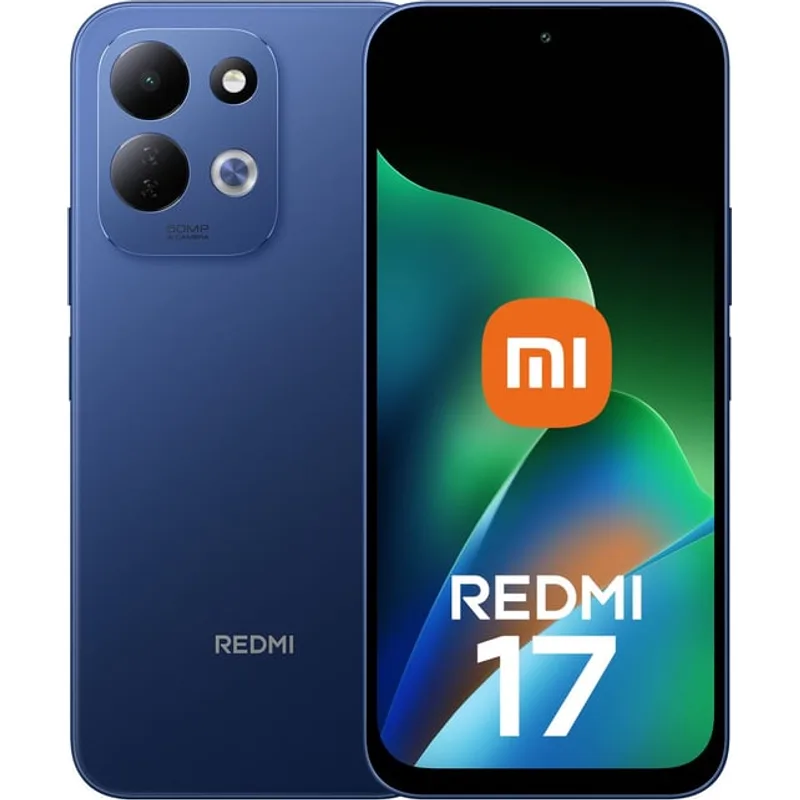
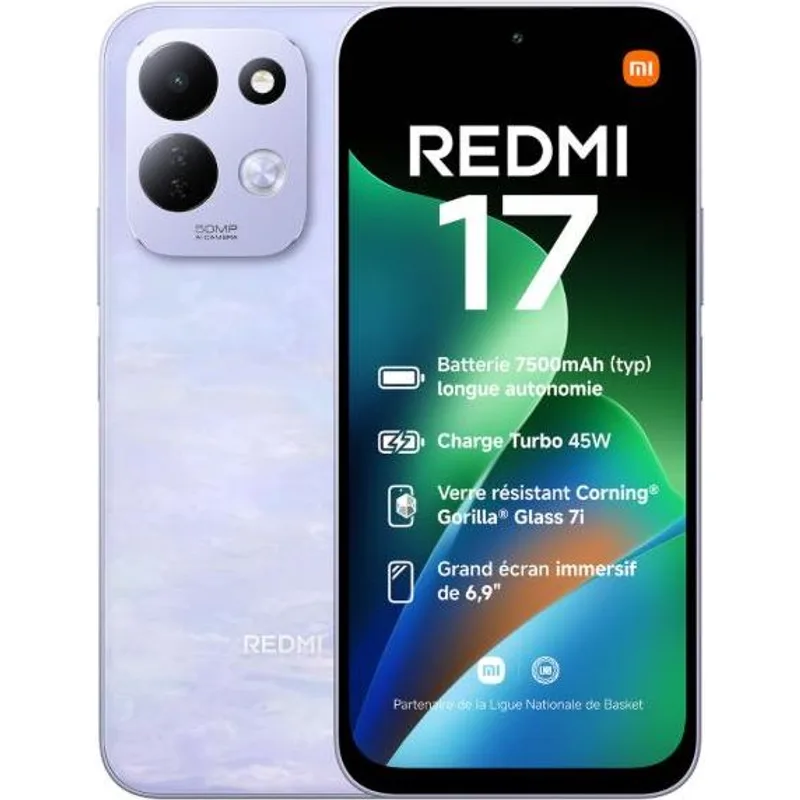
Fotos na cor disponível em estoque e remove workflow obsoleto
- Troca fotos para uma cor que está em estoque: Realme C75 5G (preto),
  Redmi 17 (roxo), Poco M8 Pro (preto) e Xiaomi 17T (preto).
- Versão do Poco X8 Pro só em Branco agora mostra o aparelho branco:
  quando a versão tem uma única cor, usa a foto "Modelo Cor" se existir.
- Substitui fotos com marca d'água (Note 15 Pro 4G/5G/Pro+, Poco X8 Pro,
  X8 Pro Max e F8 Pro) por imagens limpas.
- Remove .github/workflows/add-close-modal.yml, que reescrevia o
  index.html a cada push e já não tinha efeito.

diff --git a/index.html b/index.html
@@ -1,1 +1,1 @@
-<!DOCTYPE html><html lang="pt-BR"><head><meta charset="UTF-8"><meta name="viewport" content="width=device-width,initial-scale=1"><title>Catálogo de Celulares</title><style>*{box-sizing:border-box}body{margin:0;font-family:Arial,sans-serif;background:#0b0f17;color:#fff}.wrap{max-width:1200px;margin:auto;padding:24px}.hero{background:linear-gradient(135deg,#111827,#1f2937);border:1px solid #263247;border-radius:24px;padding:28px}.hero h1{margin:0 0 8px;font-size:clamp(28px,5vw,48px)}.hero p{margin:0;color:#b6c0cf}.controls{display:grid;grid-template-columns:1fr;gap:12px;margin:22px 0}.search{display:flex;gap:10px;align-items:center;background:#131a25;border:1px solid #263247;border-radius:14px;padding:0 14px}.search input{width:100%;padding:14px 0;background:transparent;border:0;color:#fff;outline:none;font-size:16px}.filters{display:flex;gap:10px;flex-wrap:wrap}.filter{border:1px solid #2b3649;background:#111827;color:#dbe4f0;border-radius:999px;padding:10px 14px;cursor:pointer}.filter.active{background:#fff;color:#0b0f17}.grid{display:grid;grid-template-columns:repeat(auto-fit,minmax(260px,1fr));gap:18px}.card{overflow:hidden;background:#111827;border:1px solid #263247;border-radius:20px;display:flex;flex-direction:column}.photo{height:255px;background:#fff;display:flex;align-items:center;justify-content:center;padding:14px;position:relative}.photo img{width:100%;height:100%;object-fit:contain;display:block}.photo .fallback{display:none;color:#64748b;font-weight:700;text-align:center}.content{padding:18px;display:flex;flex-direction:column;gap:11px;flex:1}.brand{font-size:12px;color:#91a4bd;text-transform:uppercase;letter-spacing:.12em}.name{font-size:20px;font-weight:800}.specs,.colors,.small{color:#b8c2d0;font-size:14px}.price{font-size:28px;font-weight:900;margin-top:auto}.pix{font-size:12px;color:#8fe8b4}.installment{background:#182233;border-radius:12px;padding:10px 12px;font-size:14px}.installment strong{font-size:17px}.btn{border:0;border-radius:12px;padding:12px 14px;font-weight:800;cursor:pointer}.primary{background:#25D366;color:#08120c}.secondary{background:#1b2432;color:#fff;border:1px solid #2d3a50}.cardbtn{background:#eef2ff;color:#101827}.actions{display:grid;grid-template-columns:1fr 1fr;gap:8px}.full{grid-column:1/-1}.cartbar{position:sticky;bottom:14px;margin-top:20px;background:#111827;border:1px solid #2c3850;border-radius:16px;padding:12px 14px;display:flex;justify-content:space-between;align-items:center}.hidden{display:none}.modal{position:fixed;inset:0;background:rgba(0,0,0,.72);display:none;align-items:center;justify-content:center;padding:18px;z-index:100}.modal.open{display:flex}.sheet{position:relative;width:min(620px,100%);max-height:85vh;overflow:auto;background:#111827;border:1px solid #2a3850;border-radius:22px;padding:22px}.close{position:sticky;top:0;float:right;width:42px;height:42px;border:1px solid #34435b;border-radius:50%;background:#1b2432;color:#fff;font-size:25px;cursor:pointer}.row{display:flex;justify-content:space-between;gap:12px;padding:12px 0;border-bottom:1px solid #243148}.remove{background:none;border:0;color:#ff8b8b;cursor:pointer}.footer{color:#7f8da1;text-align:center;padding:32px 8px 8px;font-size:13px}@media(min-width:760px){.controls{grid-template-columns:1.2fr auto;align-items:center}}@media(max-width:500px){.wrap{padding:14px}.photo{height:230px}}</style></head><body><main class="wrap"><section class="hero"><h1>📱 Catálogo de Smartphones</h1><p>Escolha seu aparelho. Pix ou cartão em até 12x com as taxas do parcelamento repassadas ao comprador.</p></section><section class="controls"><label class="search">🔎 <input id="searchInput" type="search" placeholder="Buscar por modelo, memória ou marca..."></label><div class="filters" id="filterBox"></div></section><section class="grid" id="productGrid"></section><div class="cartbar hidden" id="cartBar"><div><strong id="cartCount">0 itens</strong><div class="small">Pedido selecionado</div></div><button class="btn primary" onclick="openCart()">Ver pedido</button></div><div class="footer">Imagens ilustrativas do modelo. Cores podem variar conforme disponibilidade. Estoque e valores sujeitos a atualização.</div></main><div class="modal" id="modal"><div class="sheet" id="sheet"></div></div><script>const WHATSAPP='5516981377309',FACTORS=[1.0438433333,1.06485,1.0753866667,1.0858966667,1.0964933333,1.1070533333,1.1440366667,1.1550033333,1.1661833333,1.1773033333,1.1886366667,1.1999066667];const IMG={"Realme Note 60X":"img/realme-note-60x.webp","Realme Note 70":"img/realme-note-70.webp","Realme C71":"img/realme-c71.webp","Realme C100x":"img/realme-c100x.webp","Realme C75 5G":"img/realme-c75-5g.webp","Realme C85":"img/realme-c85.webp","Realme C85 Pro":"img/realme-c85-pro.webp","Redmi A7 Pro":"img/redmi-a7-pro.webp","Redmi 15C":"img/redmi-15c.webp","Poco C81 Pro 4G":"img/poco-c81-pro-4g.webp","Poco C85 4G":"img/poco-c85-4g.webp","Note 15 4G":"img/redmi-note-15-4g.webp","Redmi 17":"img/redmi-17.webp","Redmi 17 4G":"img/redmi-17.webp","Note 17 4G":"img/redmi-note-17-4g.webp","Note 15 Pro 4G":"img/redmi-note-15-pro-4g.webp","Note 15 Pro 5G":"img/redmi-note-15-pro-5g.webp","Note 15 Pro Plus 5G":"img/redmi-note-15-pro-plus-5g.webp","Poco M8 Pro 5G":"img/poco-m8-pro-5g.webp","Poco X8 Pro 5G":"img/poco-x8-pro-5g.webp","Poco X8 Pro Max 5G":"img/poco-x8-pro-max-5g.webp","Note 17 Pro Max 5G":"img/redmi-note-17-pro-max-5g.webp","Poco F8 Pro 5G":"img/poco-f8-pro-5g.webp","Mi 17T":"img/xiaomi-17t.webp"};const raw=[['Realme','Realme Note 60X','64GB',['Preto','Verde'],1659.75],['Realme','Realme Note 60X','128GB / 4GB RAM',['Preto','Verde'],1740.95],['Realme','Realme Note 70','128GB / 4GB RAM',['Dourado','Preto'],1832.30],['Realme','Realme Note 70','256GB / 8GB RAM',['Dourado'],1933.80],['Realme','Realme C71','128GB / 4GB RAM',['Branco','Verde'],1852.60],['Realme','Realme C71','256GB / 8GB RAM',['Branco'],2015],['Realme','Realme C100x','128GB / 4GB RAM',['Gold','Azul'],2055.60],['Realme','Realme C75 5G','256GB / 8GB RAM',['Gold','Preto'],2299.20],['Realme','Realme C85','256GB / 8GB RAM',['Azul','Preto'],2319.50],['Realme','Realme C85 Pro','256GB / 8GB RAM',['Roxo','Verde'],2441.30],['Redmi','Redmi A7 Pro','128GB / 4GB RAM',['Preto','Azul','Verde'],1781.55],['Redmi','Redmi 15C','128GB / 4GB RAM',['Azul','Preto'],1842.45],['Poco','Poco C81 Pro 4G','128GB / 4GB RAM',['Preto','Verde','Gold'],1791.70],['Poco','Poco C85 4G','256GB / 8GB RAM',['Preto','Verde','Roxo'],2015],['Redmi','Redmi 15C','256GB / 8GB RAM',['Preto','Azul','Verde'],2015],['Redmi','Note 15 4G','256GB / 8GB RAM',['Preto','Azul','Verde','Roxo'],2268.75],['Redmi','Redmi 17','128GB / 4GB RAM',['Preto','Roxo'],2065.75],['Redmi','Redmi 17 4G','256GB / 6GB RAM',['Preto','Azul','Roxo'],2309.35],['Redmi','Note 17 4G','256GB / 6GB RAM',['Azul','Roxo'],2522.50],['Redmi','Note 15 Pro 4G','256GB / 8GB RAM',['Preto','Titanium','Azul'],2603.70],['Redmi','Note 15 Pro 5G','256GB / 8GB RAM',['Preto','Titanium','Azul'],2857.45],['Redmi','Note 15 Pro Plus 5G','256GB / 8GB RAM',['Preto'],3314.20],['Poco','Poco M8 Pro 5G','256GB / 8GB RAM',['Silver','Preto'],2827],['Poco','Poco M8 Pro 5G','512GB / 12GB RAM',['Silver','Preto','Verde'],2979.25],['Poco','Poco X8 Pro 5G','256GB / 8GB RAM',['Preto','Verde','Amarelo'],3283.75],['Poco','Poco X8 Pro 5G','256GB / 8GB RAM',['Branco'],3314.20],['Poco','Poco X8 Pro 5G','512GB / 8GB RAM',['Preto','Verde'],3486.75],['Poco','Poco X8 Pro 5G','512GB / 12GB RAM',['Preto','Branco','Verde'],3567.95],['Poco','Poco X8 Pro Max 5G','256GB / 12GB RAM',['Preto','Branco','Azul'],3973.95],['Poco','Poco X8 Pro Max 5G','512GB / 12GB RAM',['Preto','Azul','Laranja','Branco'],4197.25],['Redmi','Note 17 Pro Max 5G','512GB / 8GB RAM',['Preto','Verde','Gold'],3892.75],['Poco','Poco F8 Pro 5G','256GB / 12GB RAM',['Preto','Silver'],4095.75],['Poco','Poco F8 Pro 5G','512GB / 12GB RAM',['Preto','Silver'],4451],['Xiaomi','Mi 17T','512GB / 12GB RAM',['Preto'],4501.75]];const products=raw.map((x,i)=>({id:i,brand:x[0],name:x[1],memory:x[2],colors:x[3],price:x[4],image:IMG[x[1]]||''})),els={search:document.getElementById('searchInput'),filters:document.getElementById('filterBox'),grid:document.getElementById('productGrid'),modal:document.getElementById('modal'),sheet:document.getElementById('sheet'),cartBar:document.getElementById('cartBar'),cartCount:document.getElementById('cartCount')};let active='Todos',cart=[];const money=v=>v.toLocaleString('pt-BR',{style:'currency',currency:'BRL'}),totalCard=(p,n)=>p*FACTORS[n-1];function renderFilters(){const b=['Todos',...new Set(products.map(p=>p.brand))];els.filters.innerHTML=b.map(x=>`<button class="filter ${x===active?'active':''}" data-brand="${x}">${x}</button>`).join('');els.filters.querySelectorAll('button').forEach(x=>x.onclick=()=>{active=x.dataset.brand;renderFilters();renderProducts()})}function renderProducts(){const q=els.search.value.trim().toLowerCase(),list=products.filter(p=>(active==='Todos'||p.brand===active)&&(`${p.brand} ${p.name} ${p.memory}`).toLowerCase().includes(q));els.grid.innerHTML=list.map(p=>`<article class="card"><div class="photo"><img src="${p.image}" alt="${p.name}" loading="lazy" referrerpolicy="no-referrer" onerror="this.style.display='none';this.nextElementSibling.style.display='block'"><div class="fallback">📱<br>${p.name}</div></div><div class="content"><div class="brand">${p.brand}</div><div class="name">${p.name}</div><div class="specs">💾 ${p.memory}</div><div class="colors">🎨 ${p.colors.join(' • ')}</div><div><div class="price">${money(p.price)}</div><div class="pix">no Pix</div></div><div class="installment">💳 ou <strong>12x de ${money(totalCard(p.price,12)/12)}</strong><br><span class="small">Total no cartão: ${money(totalCard(p.price,12))}</span></div><div class="actions"><button class="btn cardbtn full" onclick="showInstallments(${p.id})">Ver parcelas de 1x a 12x</button><button class="btn secondary" onclick="addToCart(${p.id})">+ Pedido</button><button class="btn primary" onclick="buyNow(${p.id})">WhatsApp</button></div></div></article>`).join('')||'<p>Nenhum aparelho encontrado.</p>'}function closeSheet(){els.modal.classList.remove('open')}function showInstallments(id){const p=products[id],rows=FACTORS.map((f,k)=>{const n=k+1,t=p.price*f;return `<div class="row"><strong>${n}x de ${money(t/n)}</strong><span class="small">Total ${money(t)}</span></div>`}).join('');els.sheet.innerHTML=`<button class="close" onclick="closeSheet()">×</button><h2>${p.name}</h2><p>💰 Pix: <strong>${money(p.price)}</strong></p><h3>💳 Cartão de crédito</h3>${rows}<p class="small">Taxas de parcelamento já incluídas.</p><button class="btn primary" style="width:100%" onclick="buyNow(${id})">Tenho interesse</button>`;els.modal.classList.add('open')}function addToCart(id){if(!cart.includes(id))cart.push(id);updateCart()}function updateCart(){els.cartBar.classList.toggle('hidden',!cart.length);els.cartCount.textContent=`${cart.length} ${cart.length===1?'item':'itens'}`}function removeFromCart(id){cart=cart.filter(x=>x!==id);updateCart();openCart()}function buyNow(id){const p=products[id],msg=`Olá! Tenho interesse no ${p.name} — ${p.memory}. Valor no Pix: ${money(p.price)}. Gostaria de confirmar disponibilidade, cores e parcelamento.`;window.open(`https://wa.me/${WHATSAPP}?text=${encodeURIComponent(msg)}`,'_blank')}function openCart(){const total=cart.reduce((s,id)=>s+products[id].price,0),rows=cart.map(id=>{const p=products[id];return `<div class="row"><span><strong>${p.name}</strong><br><span class="small">${p.memory} • ${money(p.price)}</span></span><button class="remove" onclick="removeFromCart(${id})">Remover</button></div>`}).join('');els.sheet.innerHTML=`<button class="close" onclick="closeSheet()">×</button><h2>Seu pedido</h2>${rows}<p><strong>Total no Pix: ${money(total)}</strong></p><button class="btn primary" style="width:100%" onclick="sendCart()">Enviar no WhatsApp</button>`;els.modal.classList.add('open')}function sendCart(){const lines=cart.map(id=>{const p=products[id];return `• ${p.name} — ${p.memory} — ${money(p.price)} no Pix`}).join('\n'),total=cart.reduce((s,id)=>s+products[id].price,0),msg=`Olá! Gostaria de consultar a disponibilidade destes aparelhos:\n\n${lines}\n\nTotal no Pix: ${money(total)}\n\nPode confirmar as cores e opções no cartão?`;window.open(`https://wa.me/${WHATSAPP}?text=${encodeURIComponent(msg)}`,'_blank')}els.search.addEventListener('input',renderProducts);els.modal.addEventListener('click',e=>{if(e.target===els.modal)closeSheet()});document.addEventListener('keydown',e=>{if(e.key==='Escape')closeSheet()});renderFilters();renderProducts();</script></body></html>
+<!DOCTYPE html><html lang="pt-BR"><head><meta charset="UTF-8"><meta name="viewport" content="width=device-width,initial-scale=1"><title>Catálogo de Celulares</title><style>*{box-sizing:border-box}body{margin:0;font-family:Arial,sans-serif;background:#0b0f17;color:#fff}.wrap{max-width:1200px;margin:auto;padding:24px}.hero{background:linear-gradient(135deg,#111827,#1f2937);border:1px solid #263247;border-radius:24px;padding:28px}.hero h1{margin:0 0 8px;font-size:clamp(28px,5vw,48px)}.hero p{margin:0;color:#b6c0cf}.controls{display:grid;grid-template-columns:1fr;gap:12px;margin:22px 0}.search{display:flex;gap:10px;align-items:center;background:#131a25;border:1px solid #263247;border-radius:14px;padding:0 14px}.search input{width:100%;padding:14px 0;background:transparent;border:0;color:#fff;outline:none;font-size:16px}.filters{display:flex;gap:10px;flex-wrap:wrap}.filter{border:1px solid #2b3649;background:#111827;color:#dbe4f0;border-radius:999px;padding:10px 14px;cursor:pointer}.filter.active{background:#fff;color:#0b0f17}.grid{display:grid;grid-template-columns:repeat(auto-fit,minmax(260px,1fr));gap:18px}.card{overflow:hidden;background:#111827;border:1px solid #263247;border-radius:20px;display:flex;flex-direction:column}.photo{height:255px;background:#fff;display:flex;align-items:center;justify-content:center;padding:14px;position:relative}.photo img{width:100%;height:100%;object-fit:contain;display:block}.photo .fallback{display:none;color:#64748b;font-weight:700;text-align:center}.content{padding:18px;display:flex;flex-direction:column;gap:11px;flex:1}.brand{font-size:12px;color:#91a4bd;text-transform:uppercase;letter-spacing:.12em}.name{font-size:20px;font-weight:800}.specs,.colors,.small{color:#b8c2d0;font-size:14px}.price{font-size:28px;font-weight:900;margin-top:auto}.pix{font-size:12px;color:#8fe8b4}.installment{background:#182233;border-radius:12px;padding:10px 12px;font-size:14px}.installment strong{font-size:17px}.btn{border:0;border-radius:12px;padding:12px 14px;font-weight:800;cursor:pointer}.primary{background:#25D366;color:#08120c}.secondary{background:#1b2432;color:#fff;border:1px solid #2d3a50}.cardbtn{background:#eef2ff;color:#101827}.actions{display:grid;grid-template-columns:1fr 1fr;gap:8px}.full{grid-column:1/-1}.cartbar{position:sticky;bottom:14px;margin-top:20px;background:#111827;border:1px solid #2c3850;border-radius:16px;padding:12px 14px;display:flex;justify-content:space-between;align-items:center}.hidden{display:none}.modal{position:fixed;inset:0;background:rgba(0,0,0,.72);display:none;align-items:center;justify-content:center;padding:18px;z-index:100}.modal.open{display:flex}.sheet{position:relative;width:min(620px,100%);max-height:85vh;overflow:auto;background:#111827;border:1px solid #2a3850;border-radius:22px;padding:22px}.close{position:sticky;top:0;float:right;width:42px;height:42px;border:1px solid #34435b;border-radius:50%;background:#1b2432;color:#fff;font-size:25px;cursor:pointer}.row{display:flex;justify-content:space-between;gap:12px;padding:12px 0;border-bottom:1px solid #243148}.remove{background:none;border:0;color:#ff8b8b;cursor:pointer}.footer{color:#7f8da1;text-align:center;padding:32px 8px 8px;font-size:13px}@media(min-width:760px){.controls{grid-template-columns:1.2fr auto;align-items:center}}@media(max-width:500px){.wrap{padding:14px}.photo{height:230px}}</style></head><body><main class="wrap"><section class="hero"><h1>📱 Catálogo de Smartphones</h1><p>Escolha seu aparelho. Pix ou cartão em até 12x com as taxas do parcelamento repassadas ao comprador.</p></section><section class="controls"><label class="search">🔎 <input id="searchInput" type="search" placeholder="Buscar por modelo, memória ou marca..."></label><div class="filters" id="filterBox"></div></section><section class="grid" id="productGrid"></section><div class="cartbar hidden" id="cartBar"><div><strong id="cartCount">0 itens</strong><div class="small">Pedido selecionado</div></div><button class="btn primary" onclick="openCart()">Ver pedido</button></div><div class="footer">Imagens ilustrativas do modelo. Cores podem variar conforme disponibilidade. Estoque e valores sujeitos a atualização.</div></main><div class="modal" id="modal"><div class="sheet" id="sheet"></div></div><script>const WHATSAPP='5516981377309',FACTORS=[1.0438433333,1.06485,1.0753866667,1.0858966667,1.0964933333,1.1070533333,1.1440366667,1.1550033333,1.1661833333,1.1773033333,1.1886366667,1.1999066667];const IMG={"Realme Note 60X":"img/realme-note-60x.webp","Realme Note 70":"img/realme-note-70.webp","Realme C71":"img/realme-c71.webp","Realme C100x":"img/realme-c100x.webp","Realme C75 5G":"img/realme-c75-5g.webp","Realme C85":"img/realme-c85.webp","Realme C85 Pro":"img/realme-c85-pro.webp","Redmi A7 Pro":"img/redmi-a7-pro.webp","Redmi 15C":"img/redmi-15c.webp","Poco C81 Pro 4G":"img/poco-c81-pro-4g.webp","Poco C85 4G":"img/poco-c85-4g.webp","Note 15 4G":"img/redmi-note-15-4g.webp","Redmi 17":"img/redmi-17.webp","Redmi 17 4G":"img/redmi-17.webp","Note 17 4G":"img/redmi-note-17-4g.webp","Note 15 Pro 4G":"img/redmi-note-15-pro-4g.webp","Note 15 Pro 5G":"img/redmi-note-15-pro-5g.webp","Note 15 Pro Plus 5G":"img/redmi-note-15-pro-plus-5g.webp","Poco M8 Pro 5G":"img/poco-m8-pro-5g.webp","Poco X8 Pro 5G":"img/poco-x8-pro-5g.webp","Poco X8 Pro Max 5G":"img/poco-x8-pro-max-5g.webp","Note 17 Pro Max 5G":"img/redmi-note-17-pro-max-5g.webp","Poco F8 Pro 5G":"img/poco-f8-pro-5g.webp","Mi 17T":"img/xiaomi-17t.webp","Poco X8 Pro 5G Branco":"img/poco-x8-pro-5g-branco.webp"};const raw=[['Realme','Realme Note 60X','64GB',['Preto','Verde'],1659.75],['Realme','Realme Note 60X','128GB / 4GB RAM',['Preto','Verde'],1740.95],['Realme','Realme Note 70','128GB / 4GB RAM',['Dourado','Preto'],1832.30],['Realme','Realme Note 70','256GB / 8GB RAM',['Dourado'],1933.80],['Realme','Realme C71','128GB / 4GB RAM',['Branco','Verde'],1852.60],['Realme','Realme C71','256GB / 8GB RAM',['Branco'],2015],['Realme','Realme C100x','128GB / 4GB RAM',['Gold','Azul'],2055.60],['Realme','Realme C75 5G','256GB / 8GB RAM',['Gold','Preto'],2299.20],['Realme','Realme C85','256GB / 8GB RAM',['Azul','Preto'],2319.50],['Realme','Realme C85 Pro','256GB / 8GB RAM',['Roxo','Verde'],2441.30],['Redmi','Redmi A7 Pro','128GB / 4GB RAM',['Preto','Azul','Verde'],1781.55],['Redmi','Redmi 15C','128GB / 4GB RAM',['Azul','Preto'],1842.45],['Poco','Poco C81 Pro 4G','128GB / 4GB RAM',['Preto','Verde','Gold'],1791.70],['Poco','Poco C85 4G','256GB / 8GB RAM',['Preto','Verde','Roxo'],2015],['Redmi','Redmi 15C','256GB / 8GB RAM',['Preto','Azul','Verde'],2015],['Redmi','Note 15 4G','256GB / 8GB RAM',['Preto','Azul','Verde','Roxo'],2268.75],['Redmi','Redmi 17','128GB / 4GB RAM',['Preto','Roxo'],2065.75],['Redmi','Redmi 17 4G','256GB / 6GB RAM',['Preto','Azul','Roxo'],2309.35],['Redmi','Note 17 4G','256GB / 6GB RAM',['Azul','Roxo'],2522.50],['Redmi','Note 15 Pro 4G','256GB / 8GB RAM',['Preto','Titanium','Azul'],2603.70],['Redmi','Note 15 Pro 5G','256GB / 8GB RAM',['Preto','Titanium','Azul'],2857.45],['Redmi','Note 15 Pro Plus 5G','256GB / 8GB RAM',['Preto'],3314.20],['Poco','Poco M8 Pro 5G','256GB / 8GB RAM',['Silver','Preto'],2827],['Poco','Poco M8 Pro 5G','512GB / 12GB RAM',['Silver','Preto','Verde'],2979.25],['Poco','Poco X8 Pro 5G','256GB / 8GB RAM',['Preto','Verde','Amarelo'],3283.75],['Poco','Poco X8 Pro 5G','256GB / 8GB RAM',['Branco'],3314.20],['Poco','Poco X8 Pro 5G','512GB / 8GB RAM',['Preto','Verde'],3486.75],['Poco','Poco X8 Pro 5G','512GB / 12GB RAM',['Preto','Branco','Verde'],3567.95],['Poco','Poco X8 Pro Max 5G','256GB / 12GB RAM',['Preto','Branco','Azul'],3973.95],['Poco','Poco X8 Pro Max 5G','512GB / 12GB RAM',['Preto','Azul','Laranja','Branco'],4197.25],['Redmi','Note 17 Pro Max 5G','512GB / 8GB RAM',['Preto','Verde','Gold'],3892.75],['Poco','Poco F8 Pro 5G','256GB / 12GB RAM',['Preto','Silver'],4095.75],['Poco','Poco F8 Pro 5G','512GB / 12GB RAM',['Preto','Silver'],4451],['Xiaomi','Mi 17T','512GB / 12GB RAM',['Preto'],4501.75]];const products=raw.map((x,i)=>({id:i,brand:x[0],name:x[1],memory:x[2],colors:x[3],price:x[4],image:(x[3].length===1&&IMG[x[1]+' '+x[3][0]])||IMG[x[1]]||''})),els={search:document.getElementById('searchInput'),filters:document.getElementById('filterBox'),grid:document.getElementById('productGrid'),modal:document.getElementById('modal'),sheet:document.getElementById('sheet'),cartBar:document.getElementById('cartBar'),cartCount:document.getElementById('cartCount')};let active='Todos',cart=[];const money=v=>v.toLocaleString('pt-BR',{style:'currency',currency:'BRL'}),totalCard=(p,n)=>p*FACTORS[n-1];function renderFilters(){const b=['Todos',...new Set(products.map(p=>p.brand))];els.filters.innerHTML=b.map(x=>`<button class="filter ${x===active?'active':''}" data-brand="${x}">${x}</button>`).join('');els.filters.querySelectorAll('button').forEach(x=>x.onclick=()=>{active=x.dataset.brand;renderFilters();renderProducts()})}function renderProducts(){const q=els.search.value.trim().toLowerCase(),list=products.filter(p=>(active==='Todos'||p.brand===active)&&(`${p.brand} ${p.name} ${p.memory}`).toLowerCase().includes(q));els.grid.innerHTML=list.map(p=>`<article class="card"><div class="photo"><img src="${p.image}" alt="${p.name}" loading="lazy" referrerpolicy="no-referrer" onerror="this.style.display='none';this.nextElementSibling.style.display='block'"><div class="fallback">📱<br>${p.name}</div></div><div class="content"><div class="brand">${p.brand}</div><div class="name">${p.name}</div><div class="specs">💾 ${p.memory}</div><div class="colors">🎨 ${p.colors.join(' • ')}</div><div><div class="price">${money(p.price)}</div><div class="pix">no Pix</div></div><div class="installment">💳 ou <strong>12x de ${money(totalCard(p.price,12)/12)}</strong><br><span class="small">Total no cartão: ${money(totalCard(p.price,12))}</span></div><div class="actions"><button class="btn cardbtn full" onclick="showInstallments(${p.id})">Ver parcelas de 1x a 12x</button><button class="btn secondary" onclick="addToCart(${p.id})">+ Pedido</button><button class="btn primary" onclick="buyNow(${p.id})">WhatsApp</button></div></div></article>`).join('')||'<p>Nenhum aparelho encontrado.</p>'}function closeSheet(){els.modal.classList.remove('open')}function showInstallments(id){const p=products[id],rows=FACTORS.map((f,k)=>{const n=k+1,t=p.price*f;return `<div class="row"><strong>${n}x de ${money(t/n)}</strong><span class="small">Total ${money(t)}</span></div>`}).join('');els.sheet.innerHTML=`<button class="close" onclick="closeSheet()">×</button><h2>${p.name}</h2><p>💰 Pix: <strong>${money(p.price)}</strong></p><h3>💳 Cartão de crédito</h3>${rows}<p class="small">Taxas de parcelamento já incluídas.</p><button class="btn primary" style="width:100%" onclick="buyNow(${id})">Tenho interesse</button>`;els.modal.classList.add('open')}function addToCart(id){if(!cart.includes(id))cart.push(id);updateCart()}function updateCart(){els.cartBar.classList.toggle('hidden',!cart.length);els.cartCount.textContent=`${cart.length} ${cart.length===1?'item':'itens'}`}function removeFromCart(id){cart=cart.filter(x=>x!==id);updateCart();openCart()}function buyNow(id){const p=products[id],msg=`Olá! Tenho interesse no ${p.name} — ${p.memory}. Valor no Pix: ${money(p.price)}. Gostaria de confirmar disponibilidade, cores e parcelamento.`;window.open(`https://wa.me/${WHATSAPP}?text=${encodeURIComponent(msg)}`,'_blank')}function openCart(){const total=cart.reduce((s,id)=>s+products[id].price,0),rows=cart.map(id=>{const p=products[id];return `<div class="row"><span><strong>${p.name}</strong><br><span class="small">${p.memory} • ${money(p.price)}</span></span><button class="remove" onclick="removeFromCart(${id})">Remover</button></div>`}).join('');els.sheet.innerHTML=`<button class="close" onclick="closeSheet()">×</button><h2>Seu pedido</h2>${rows}<p><strong>Total no Pix: ${money(total)}</strong></p><button class="btn primary" style="width:100%" onclick="sendCart()">Enviar no WhatsApp</button>`;els.modal.classList.add('open')}function sendCart(){const lines=cart.map(id=>{const p=products[id];return `• ${p.name} — ${p.memory} — ${money(p.price)} no Pix`}).join('\n'),total=cart.reduce((s,id)=>s+products[id].price,0),msg=`Olá! Gostaria de consultar a disponibilidade destes aparelhos:\n\n${lines}\n\nTotal no Pix: ${money(total)}\n\nPode confirmar as cores e opções no cartão?`;window.open(`https://wa.me/${WHATSAPP}?text=${encodeURIComponent(msg)}`,'_blank')}els.search.addEventListener('input',renderProducts);els.modal.addEventListener('click',e=>{if(e.target===els.modal)closeSheet()});document.addEventListener('keydown',e=>{if(e.key==='Escape')closeSheet()});renderFilters();renderProducts();</script></body></html>
